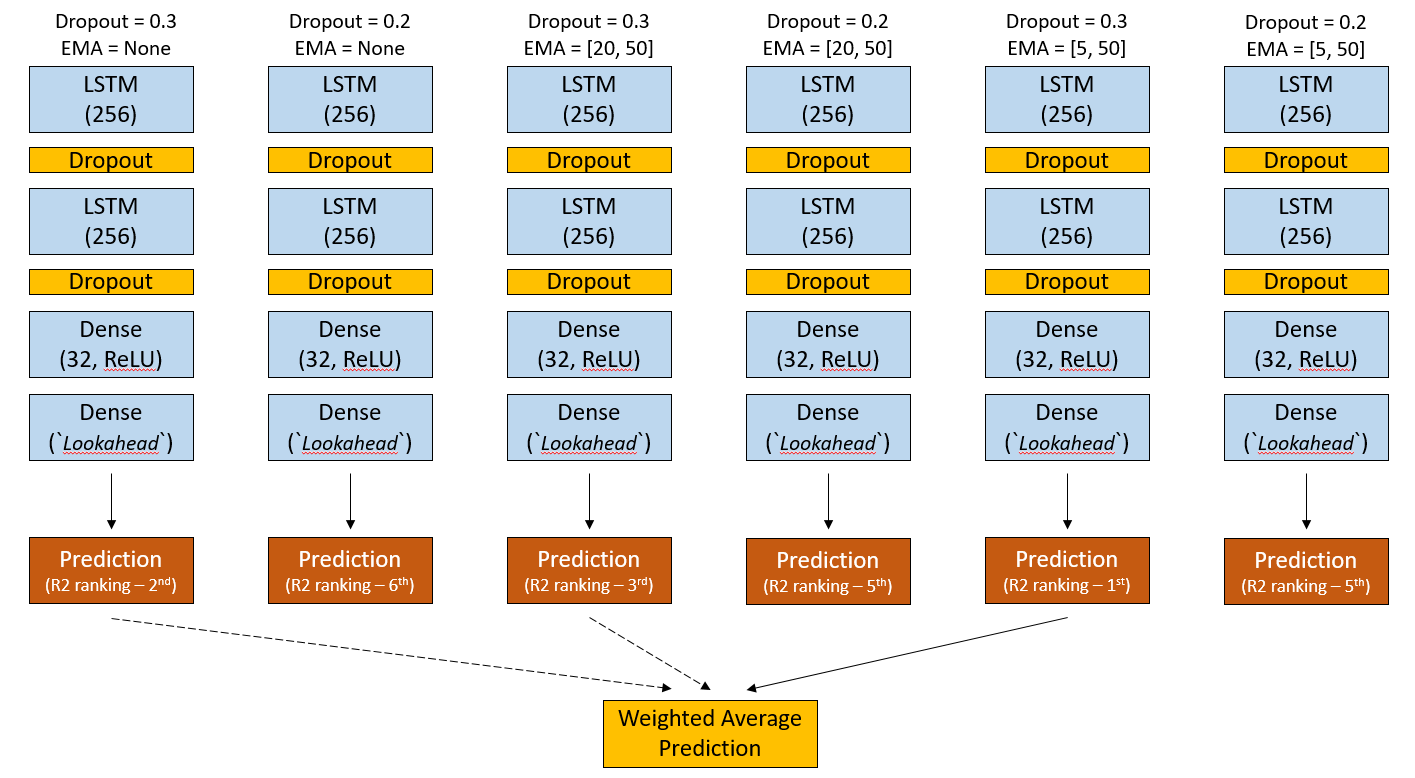
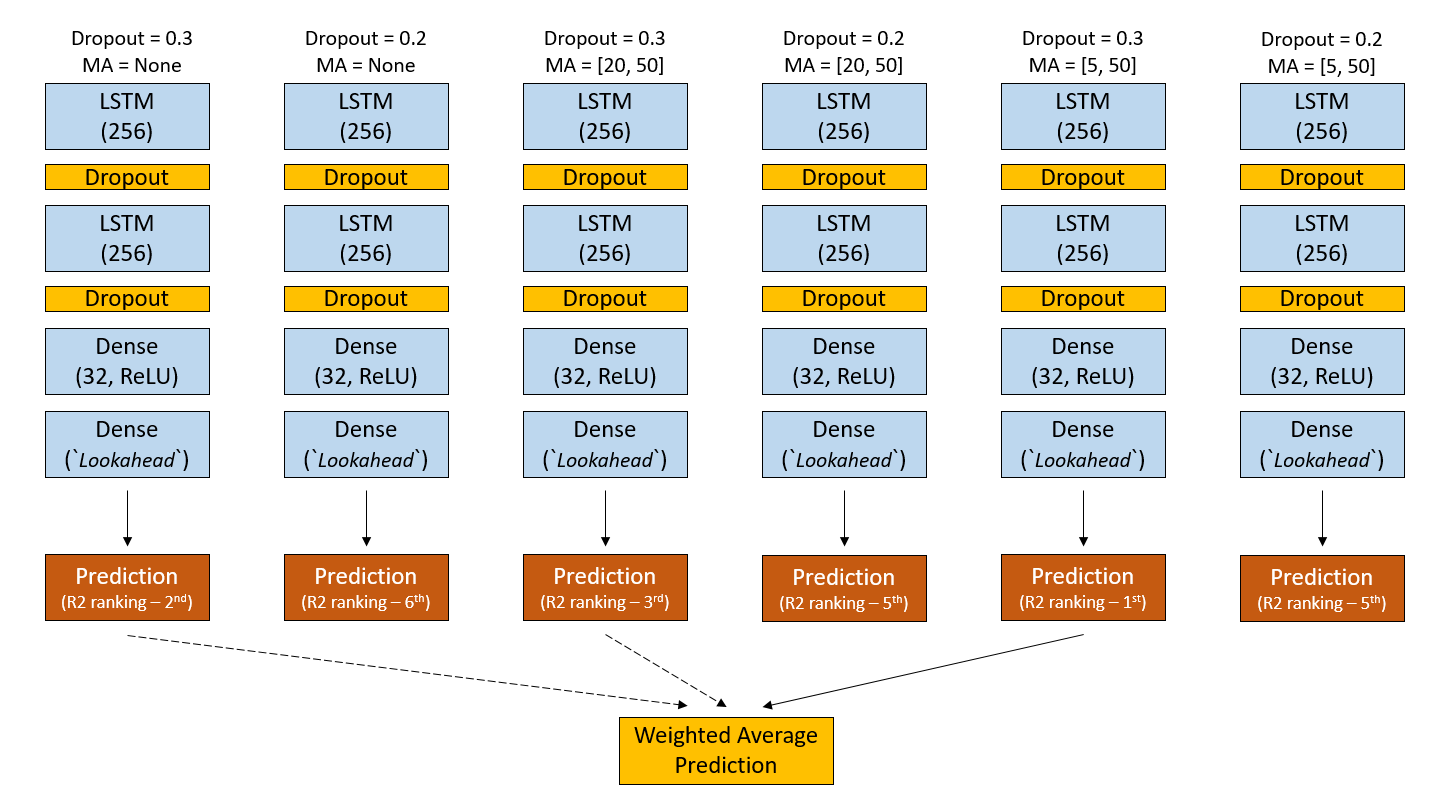
Small ammends

diff --git a/README.md b/README.md
@@ -91,8 +91,8 @@ The current predicting algorithm is based on LSTM with sliding windows.
   Currently in use:<br>
     - **`lookback, lookahead`:** [50, 1], [120, 2] and [120, 5]
     - **MA:** [None], [20, 50] or [5, 50]
-      - `ema` - adopt only the EMA indictors `dist_EMA` (e.g. `dist_ema5` refers to 5-day EMA, and `dist_ema50` refers to 50-day EMA).
-      - `all` - adopt all available indicators.
+      - `'ema'` - adopt only the EMA indictors `dist_EMA` (e.g. `dist_ema5` refers to 5-day EMA, and `dist_ema50` refers to 50-day EMA).
+      - `'all'` - adopt all available indicators.
 
 
   
@@ -120,7 +120,7 @@ The current predicting algorithm is based on LSTM with sliding windows.
   
     When `get_prediction()` is called, the training set will go through the above layers and a 	***single*** model prediction will be generated with the provided parameters.
     
-     `ensemble_prediction()` allows a basket of **EMA** options and a basket of **dropout** options. Each combination will form a new model, and based on their **R-squared** scores, the final prediction will be the weighted average of some of these models.
+     `ensemble_prediction()` allows a basket of **MA** options and a basket of **dropout** options. Each combination will form a new model, and based on their **R-squared** scores, the final prediction will be the weighted average of some of these models.
      
      An illustration of `ensemble_prediction()`:
      
